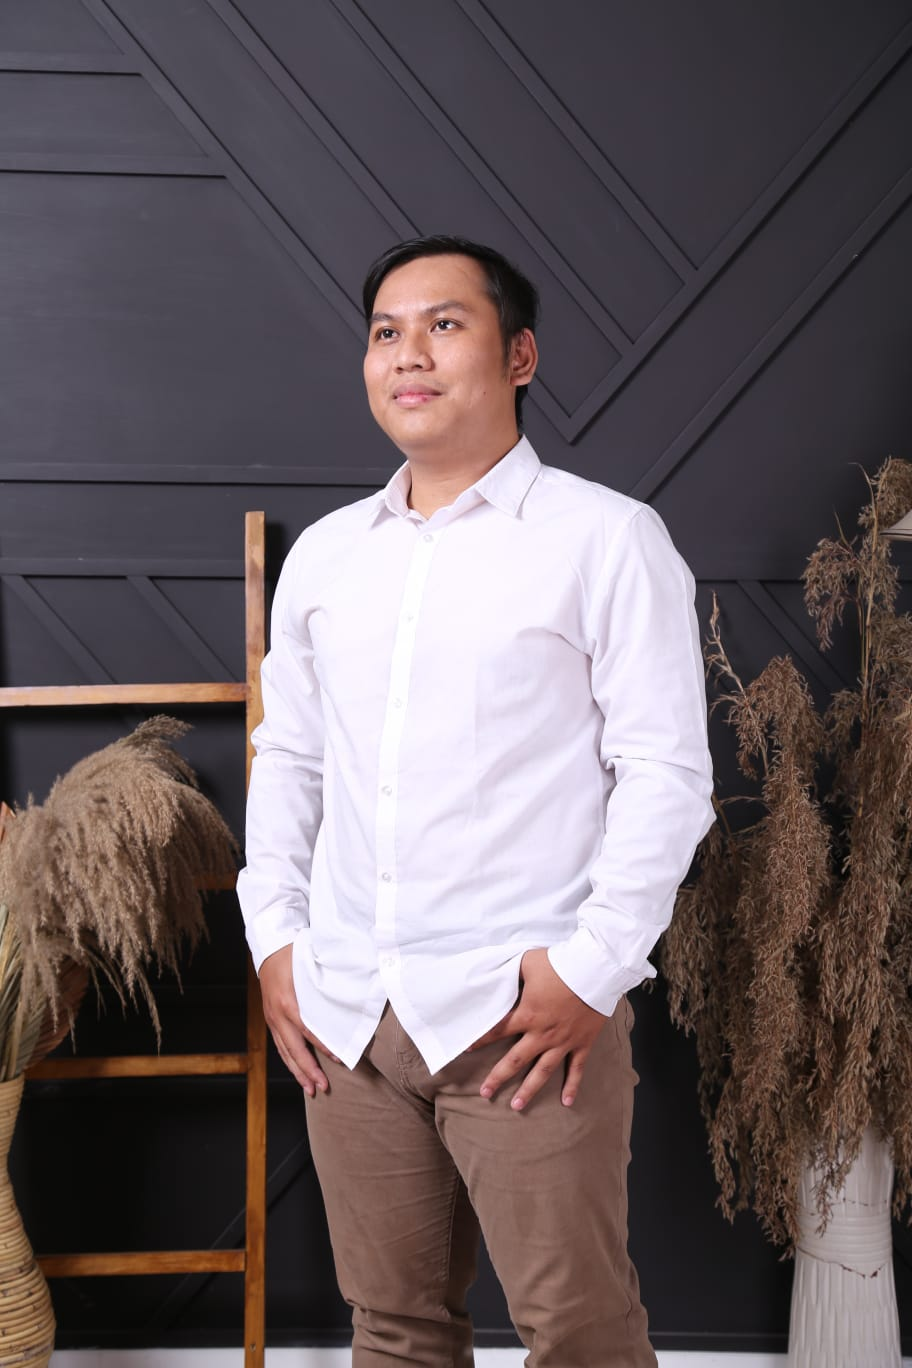
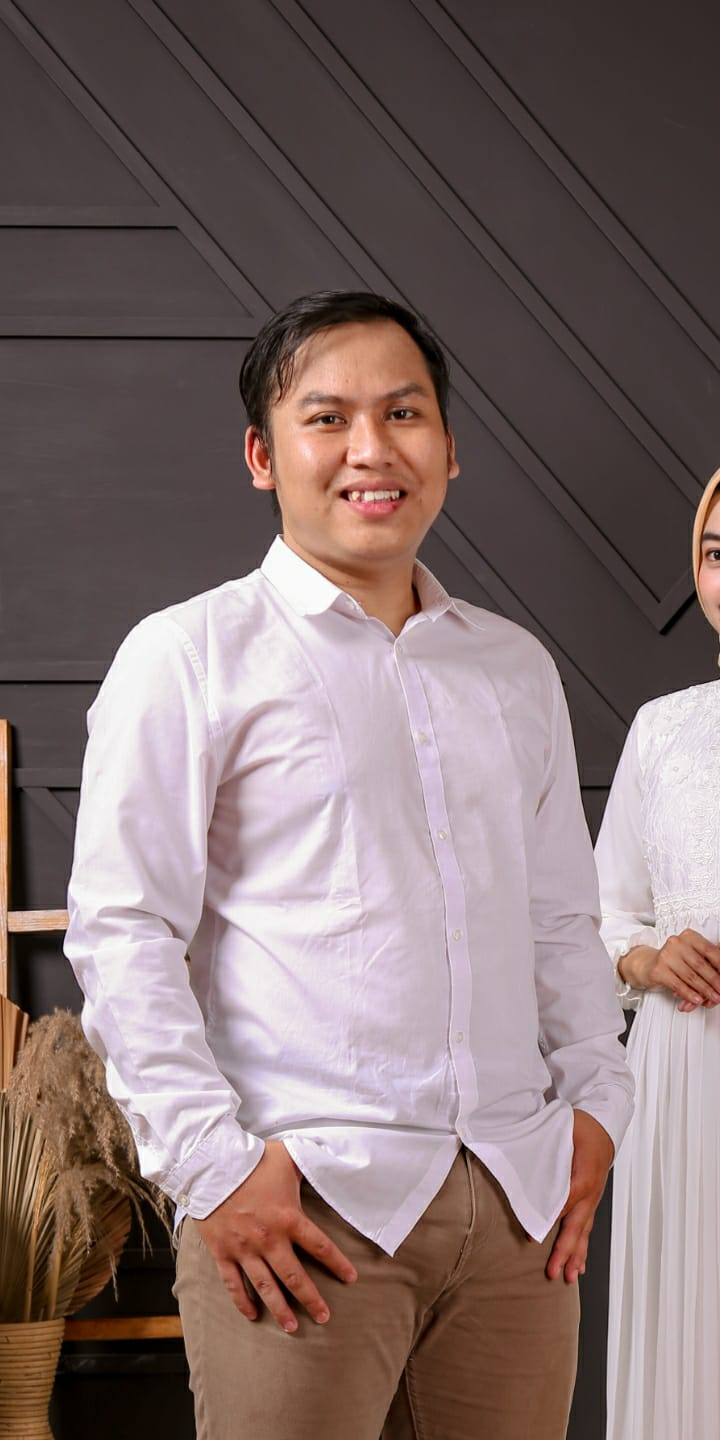
push

diff --git a/components/sections/bride.tsx b/components/sections/bride.tsx
@@ -17,6 +17,7 @@ const PersonItem = ({
   father,
   mother,
   animationControl,
+  objectPosition = 'top',
 }) => {
   return (
     <Flex direction="column" justifyContent="center" alignItems="center">
@@ -56,7 +57,7 @@ const PersonItem = ({
             layout="fill"
             quality="50"
             sizes="30vw"
-            objectPosition="top"
+            objectPosition={objectPosition}
             objectFit="cover"
           />
         </Box>
@@ -314,6 +315,7 @@ const BrideSection = React.forwardRef((props, ref) => {
               desc="Putra"
               animationControl={control}
               image={bagus}
+              objectPosition="center -12px"
               father="H. Ainur Rofiq Nansur (Alm)"
               mother="Hj. Mariyah"
             />
